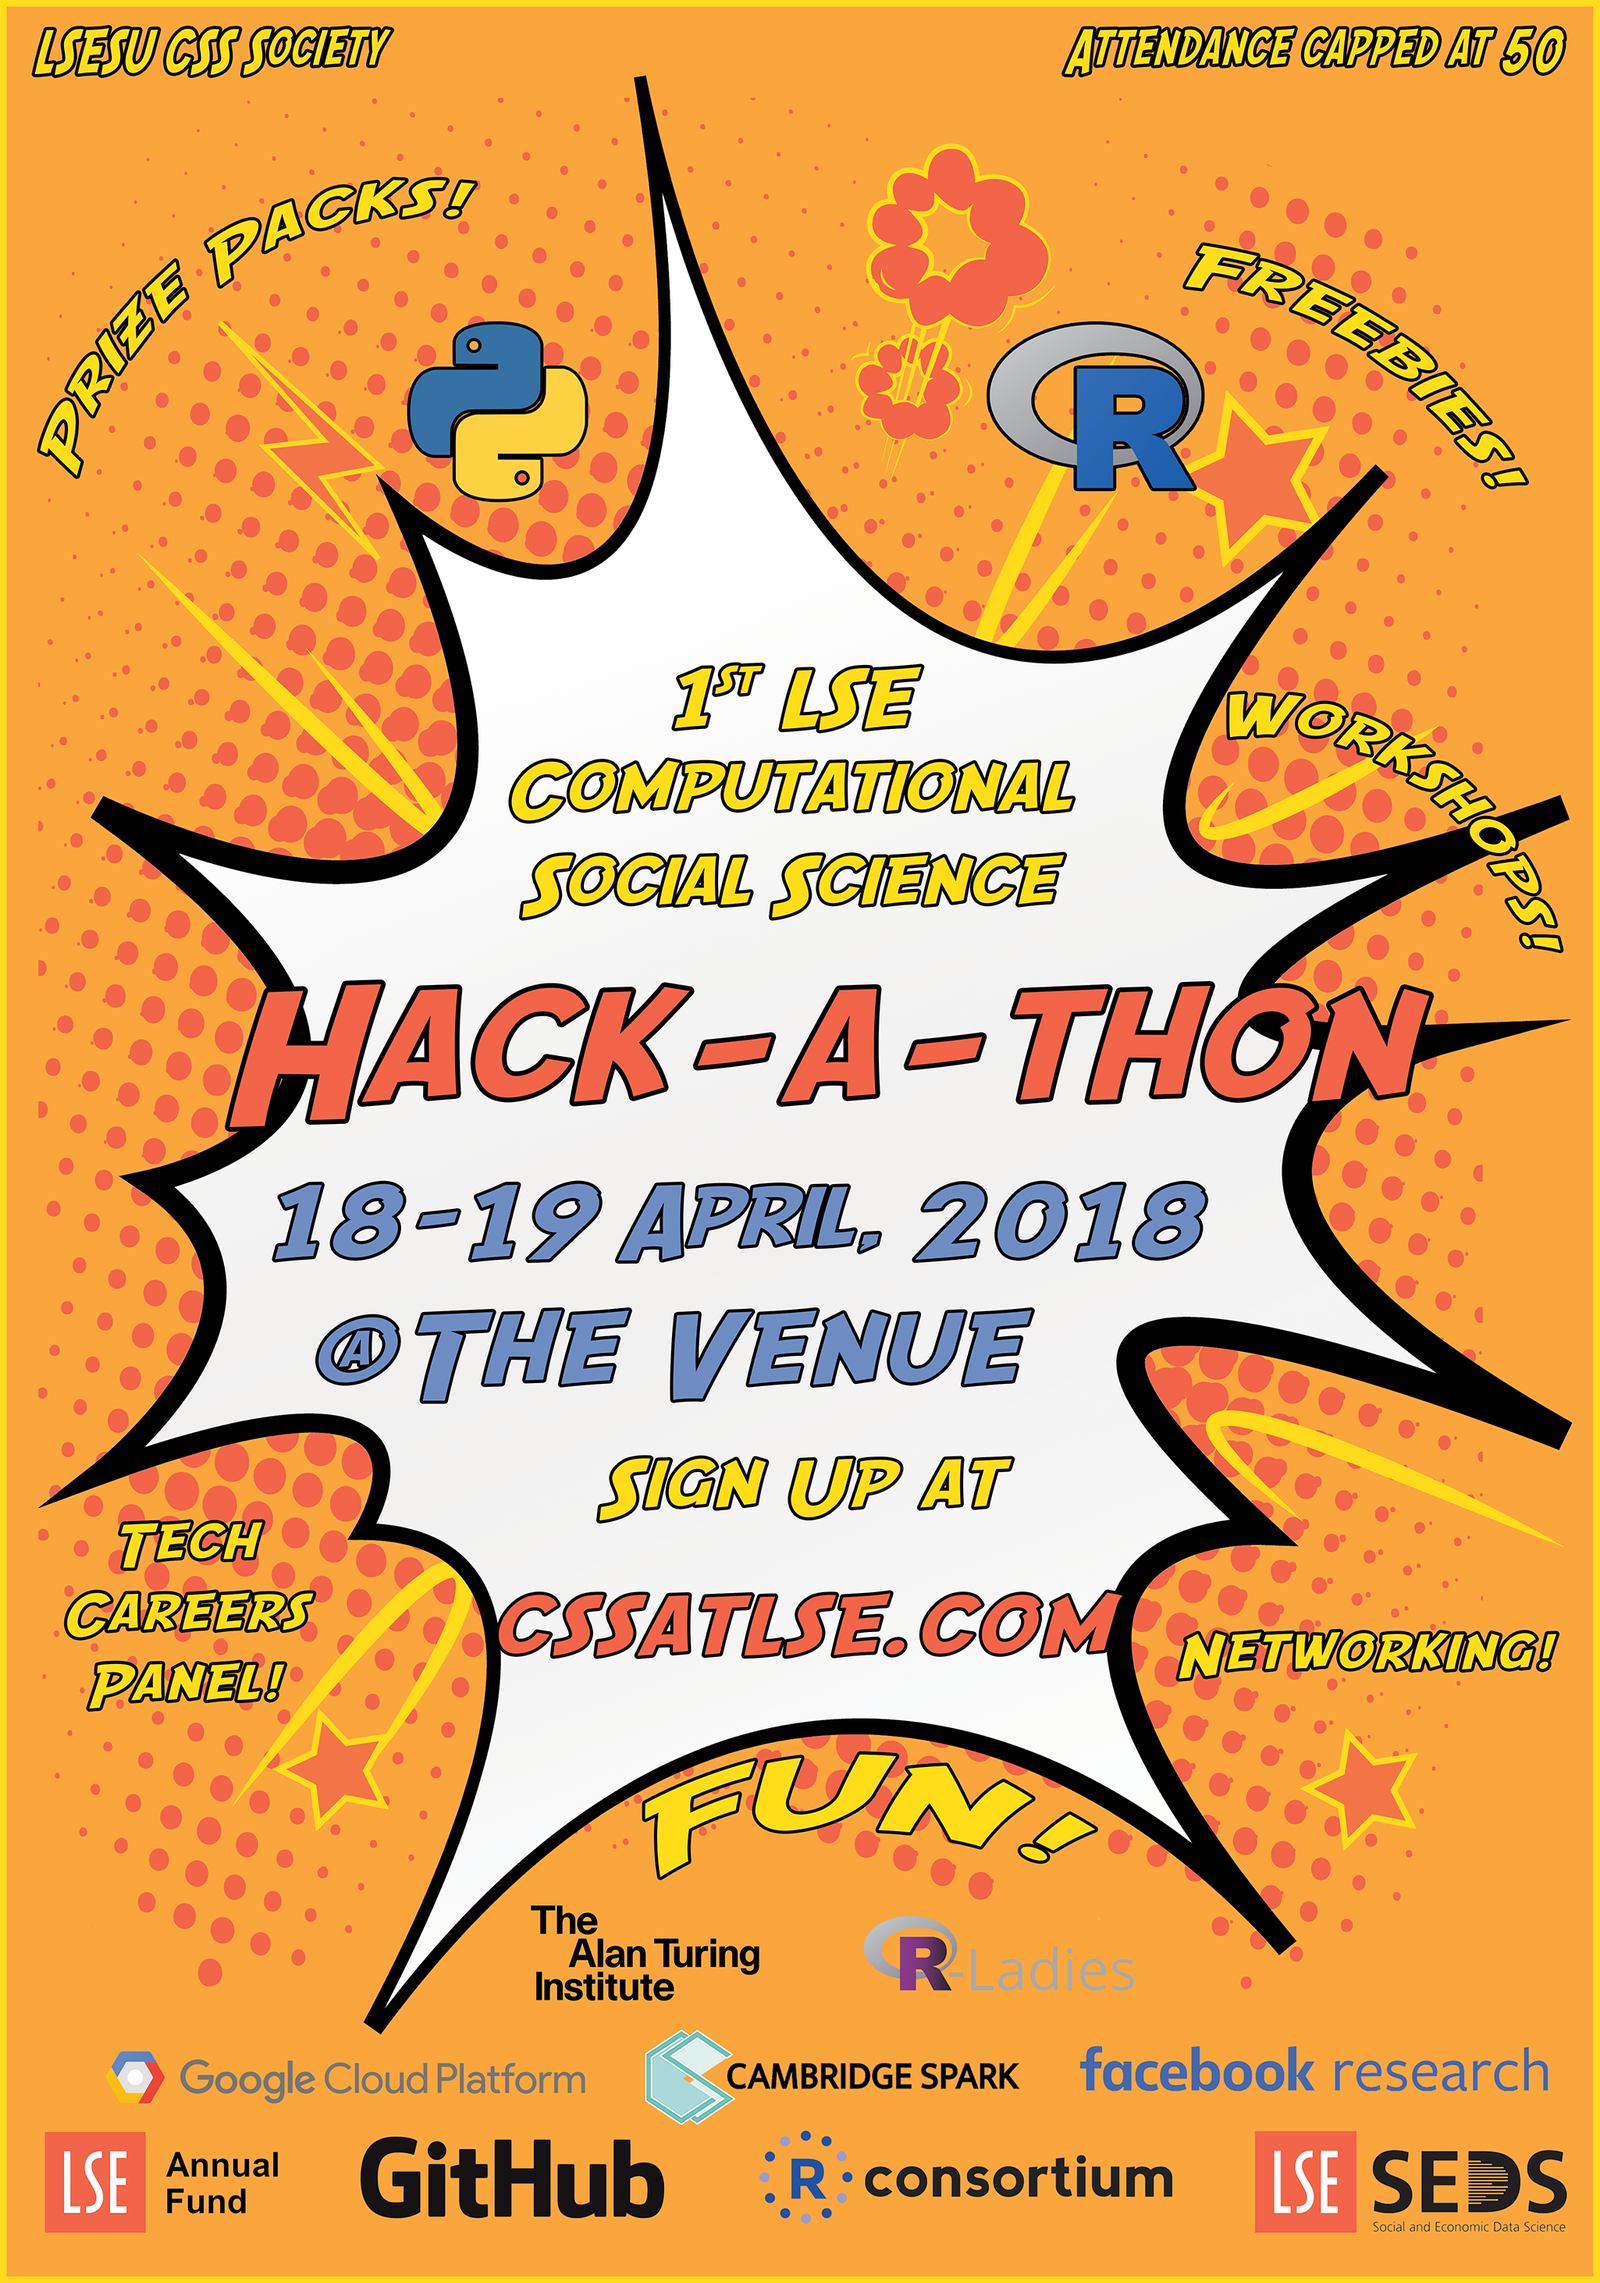
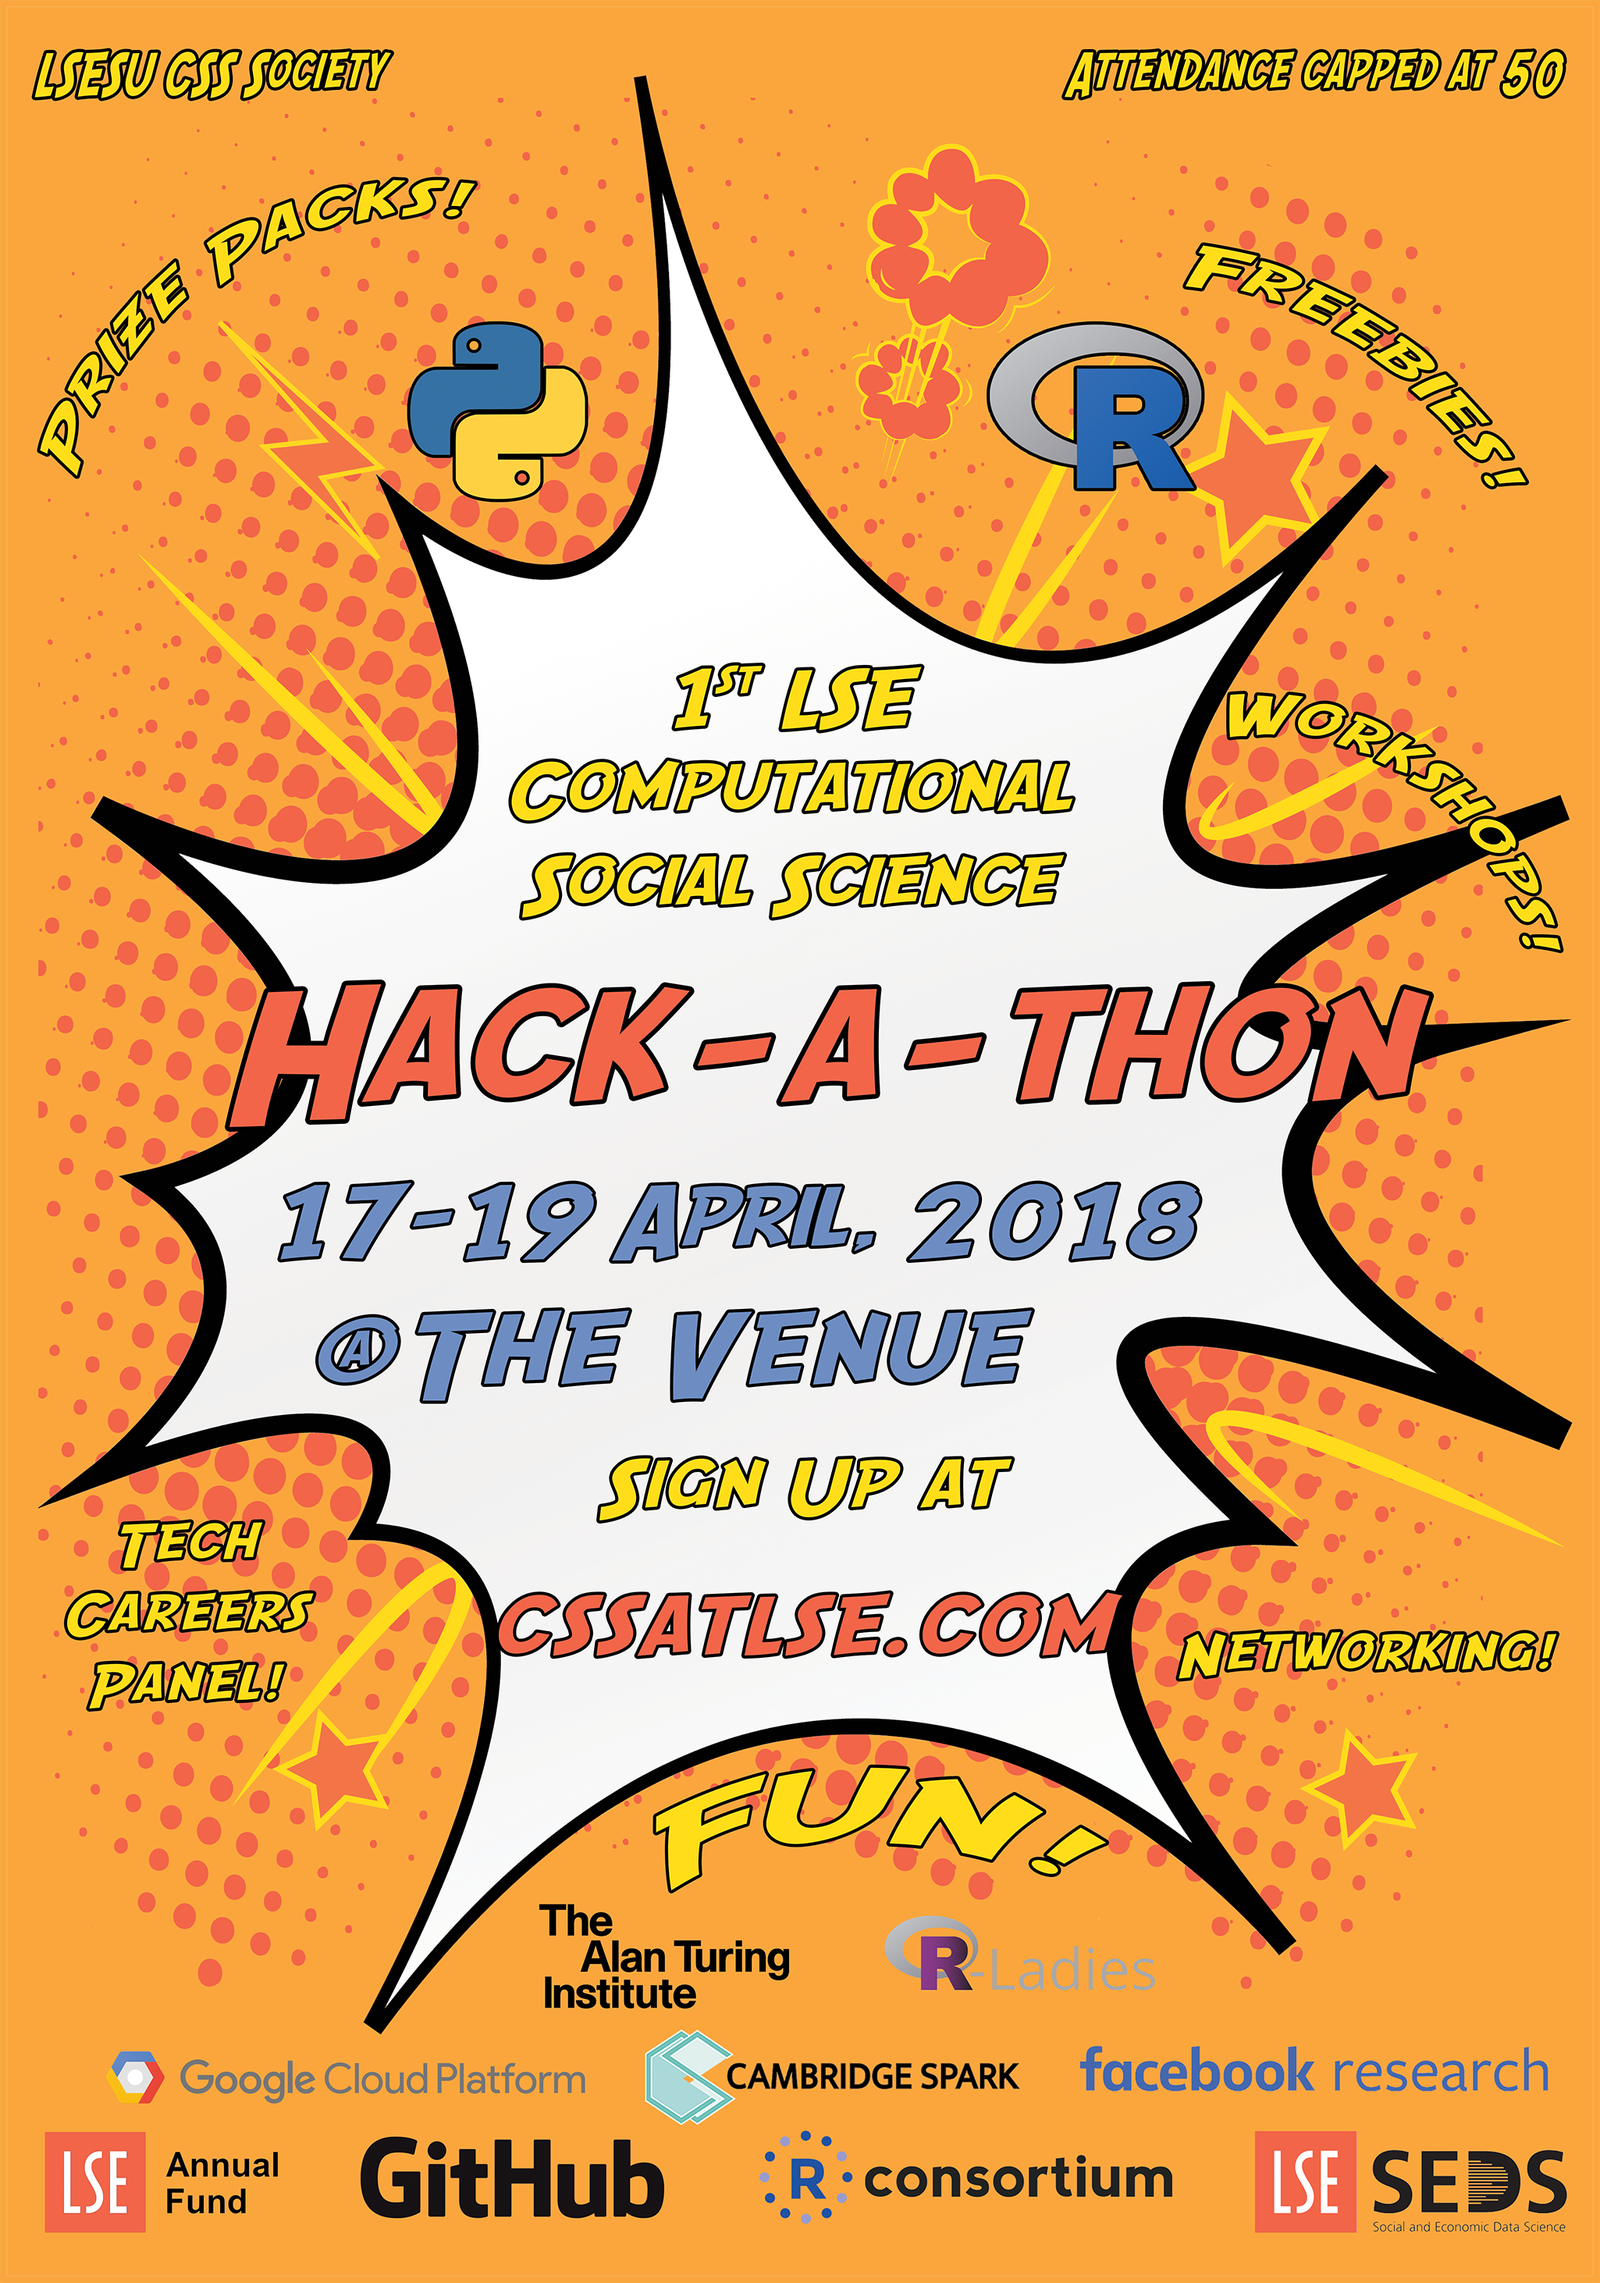
dates

Changed region(s): [[0.0, 0.0, 1.0, 1.0], [0.1561, 0.4978, 0.7493, 0.56], [0.3434, 0.7467, 0.718, 0.9022]]

diff --git a/content/post/2018-03-24-css-hackathon.html b/content/post/2018-03-24-css-hackathon.html
@@ -32,7 +32,7 @@ description: '1st Computational Social Science Hackathon hosted at the London Sc
 <div id="challenges" class="section level3">
 <h3>Challenges</h3>
 <p>We aim to have four distinct computational social science challenges. Currently, we have three challenge-issuers confirmed: LSE Social and Economic Data Science (SEDS), GitHub, and Facebook Research. We are still reaching out for the fourth, so if you happen to know a suitable institution/company/NGO/start-up, send them our way! We will publicise the challenges a week before the event.</p>
-<p>The first day of our event (that is, 17 April), is actually a pre-event. That is, no hacking will take place. Instead, that evening (6-8pm) is for getting your badges, watching videos of the challenges (sponsors themselves won’t be there for the pre-event), and team-forming. You should definitely <strong>not</strong> skip this day, even though the poster makes it look like you can! Do mingle with the others—drinks are on us.</p>
+<p>The first day of our event (that is, 17 April), is actually a pre-event. That is, no hacking will take place. Instead, that evening (6-8pm) is for getting your badges, watching videos of the challenges (sponsors themselves won’t be there for the pre-event), and team-forming. You should definitely <strong>not</strong> skip this day<del>, even though the poster makes it look like you can!</del><a href="#fn1" class="footnoteRef" id="fnref1"><sup>1</sup></a> Do mingle with the others—drinks are on us.</p>
 </div>
 <div id="workshops" class="section level3">
 <h3>Workshops</h3>
@@ -71,4 +71,10 @@ description: '1st Computational Social Science Hackathon hosted at the London Sc
 <h3>Event FAQ and website</h3>
 <p>You can register at the official event website at <a href="https://www.cssatlse.com">cssatlse.com</a>, which is <em>also</em> built using the <code>blogdown</code> package in R (cheers, Yihui). There you will find an FAQ section under the event tab, which I will aim to update regularly in the upcoming weeks. Once the hackathon is over, you will be able to use the permanent website as an online portfolio of your work/contribution. We will also post event pics and videos soon after. This whole thing is for you, you know.</p>
 <p>That’s all for now, do come if you are around and spread the word on social media: engage with our public <a href="https://www.facebook.com/events/1189313607868728/">Facebook event</a> or share this post using the buttons located below. See you in London!</p>
+</div>
+<div class="footnotes">
+<hr />
+<ol>
+<li id="fn1"><p>You know what, I’ll just edit the poster dates.<a href="#fnref1">↩</a></p></li>
+</ol>
 </div>
